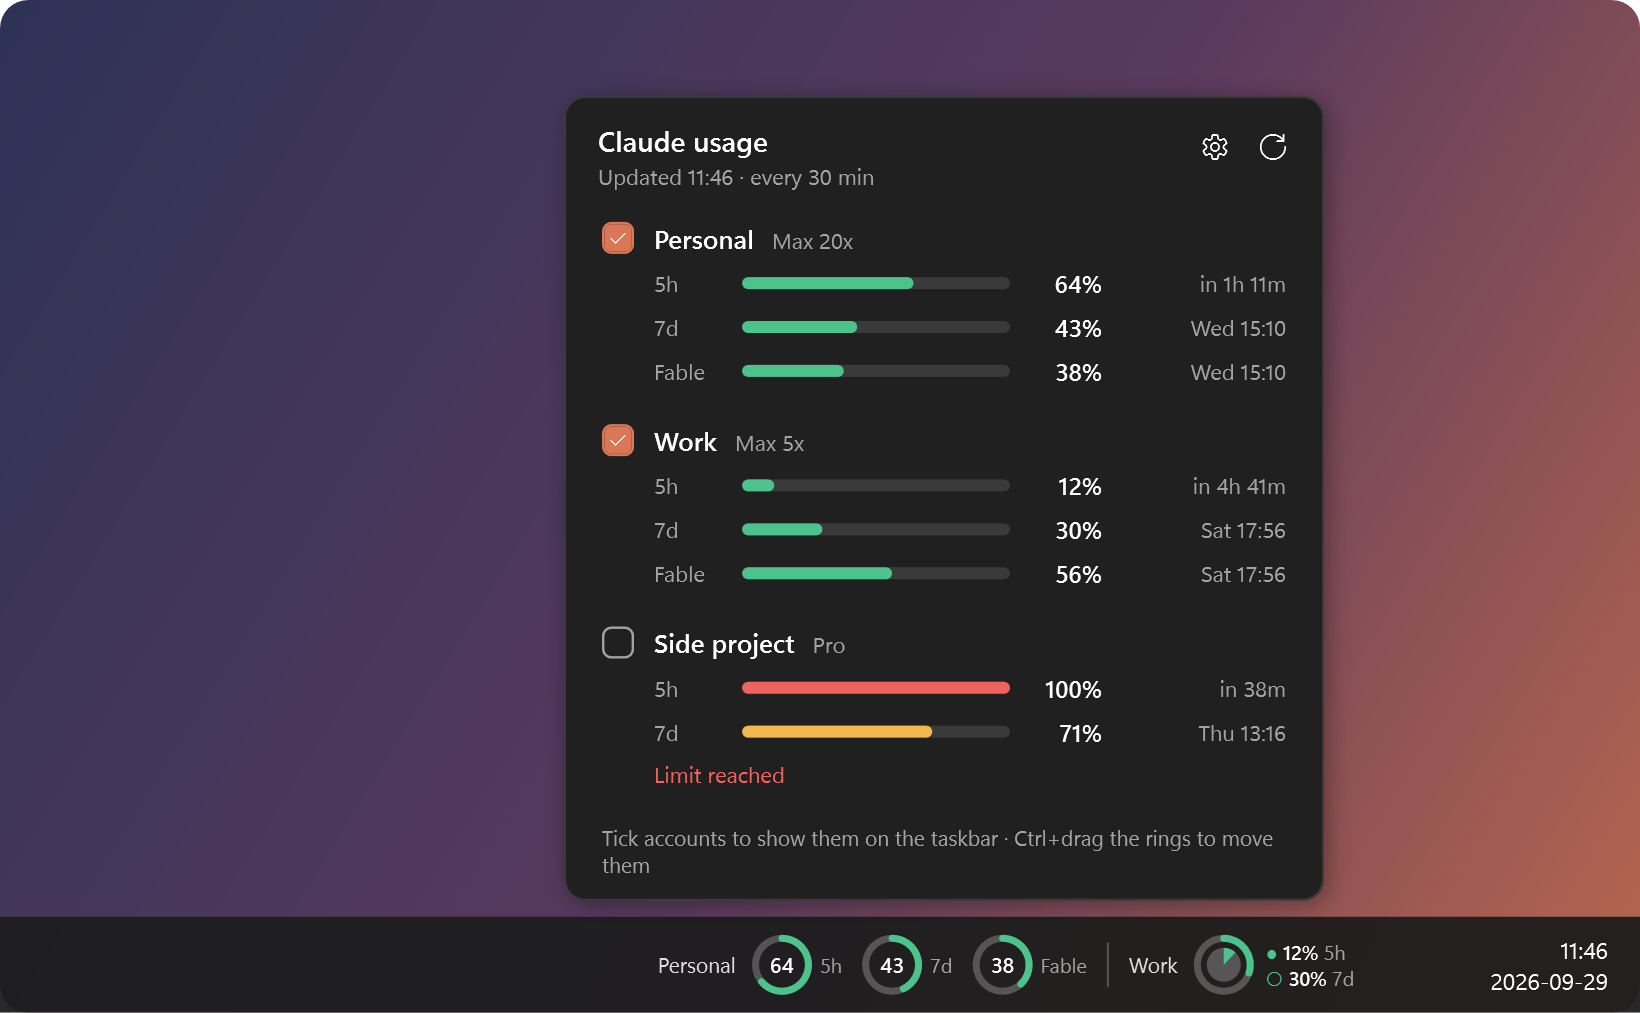
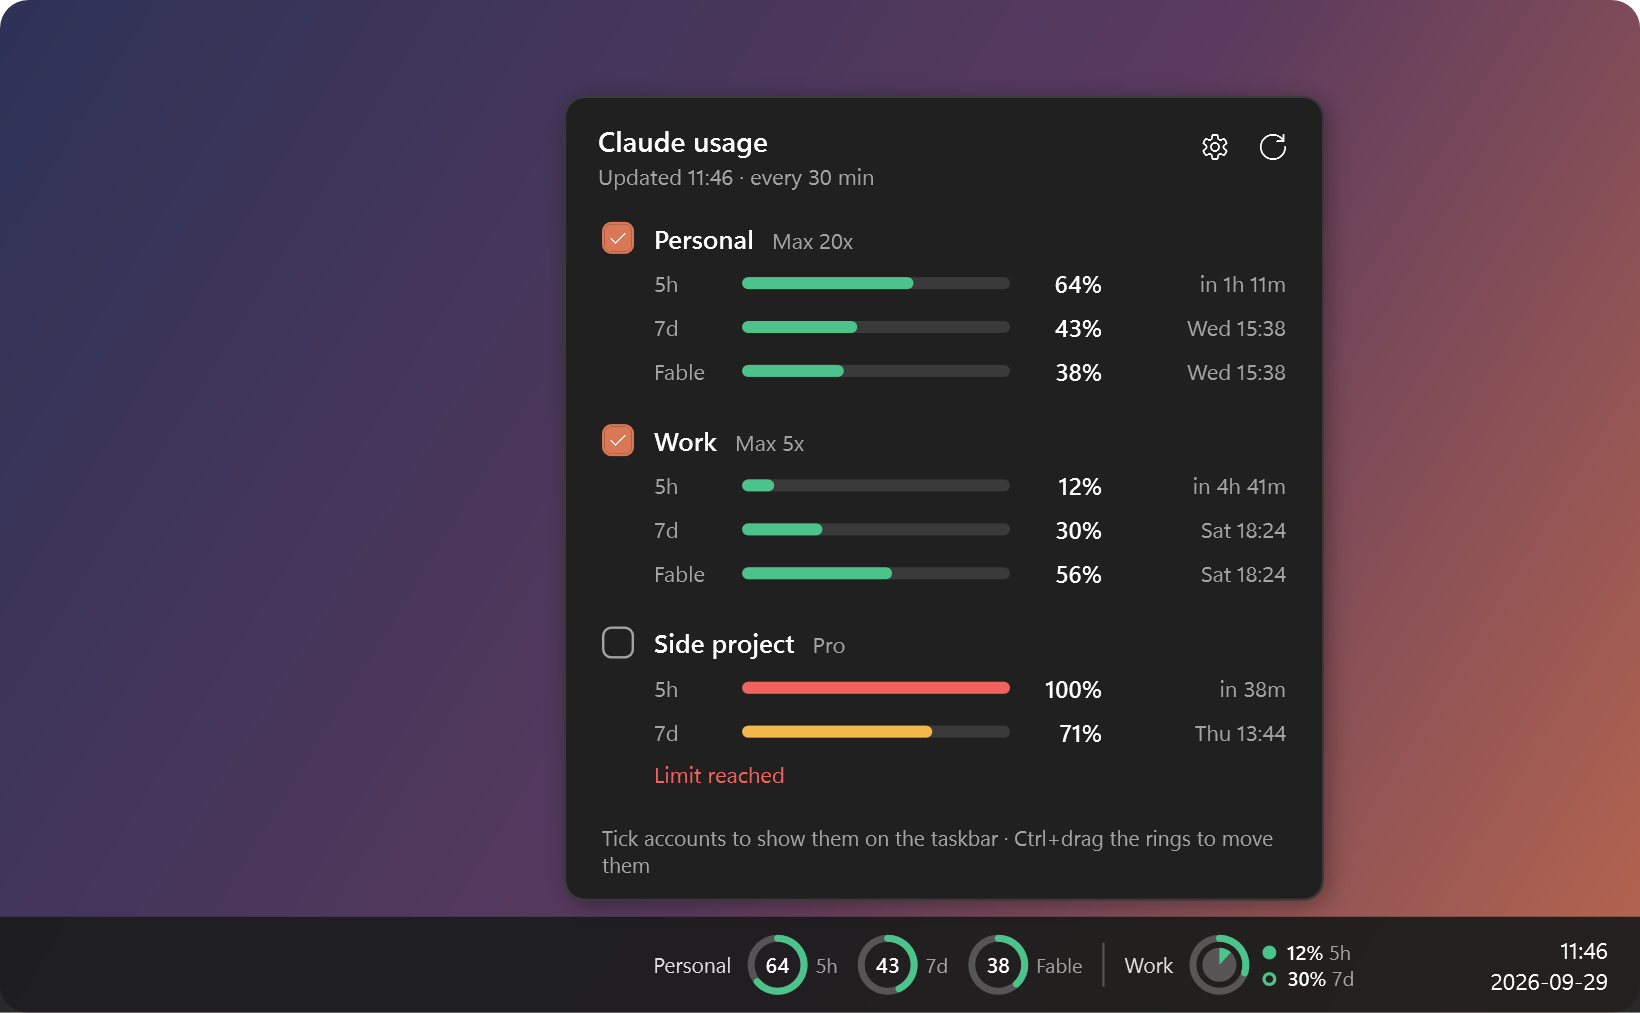
Settings Save/Cancel, taskbar toggles, refresh interval, aligned legend; 1.2.0
- Settings preview live on the taskbar; Save writes them, Cancel/Esc restores
- Taskbar options: account names and captions on/off, refresh every N min (min 5)
- Combined legend uses drawn, equal-size markers so both lines align
- Drop the per-account "In list" checkbox (hidden stays a config option)
- Re-rendered README images

diff --git a/README.md b/README.md
@@ -23,8 +23,8 @@ One account or several, updated in the background, in one click.
 - **All limits in one click.** The list shows each account's 5-hour window, 7-day window and Fable weekly limit, with countdowns to the resets.
 - **Finds your accounts.** On first run it picks up the Claude Code logins on your PC (and [xndr-claude](https://github.com/mrcsXndr/xndr-claude) accounts if you use it).
 - **Two styles.** **Rings** gives each limit its own ring. **Combined** puts one limit as a pie in the middle and the other as the ring around it, with both percentages beside it. You choose which limit goes in the middle.
-- **Settings you can edit.** Rename accounts, choose each account's style and rings, and rename the ring captions.
-- **Stays out of the way.** Refreshes every 30 minutes, and at most once a minute however you trigger it. Catches up after sleep. Hides during full-screen apps. Follows the light or dark theme.
+- **Settings you can edit.** Rename accounts, choose each account's style and rings, show or hide account names and captions, rename the captions, and set how often it refreshes.
+- **Stays out of the way.** Refreshes every 30 minutes by default (5 minutes at the most frequent), and never more than once a minute when you refresh by hand. Catches up after sleep. Hides during full-screen apps. Follows the light or dark theme.
 - **Nothing to install besides itself.** It's plain PowerShell and WPF, which ship with Windows, so there are no runtimes, services or admin rights involved.
 
 ## Install
@@ -54,7 +54,7 @@ Running either one again updates you to the latest release and keeps your settin
 | --- | --- |
 | **Click** the rings | Open the account list |
 | **Tick** an account | Show it on the taskbar |
-| **⚙ Settings** | Rename accounts, pick Rings or Combined, choose rings, rename captions |
+| **⚙ Settings** | Rename accounts, pick Rings or Combined, choose rings, toggle names and captions, set the refresh interval. Changes preview on the taskbar right away; **Save** keeps them and **Cancel** (or Esc) undoes them |
 | **⟳** | Refresh now (at most once a minute) |
 | **Ctrl + drag** | Move the rings along the taskbar |
 | **Right-click** | Refresh · Settings · Scan for accounts · Start with Windows · Uninstall · Exit |
@@ -70,7 +70,7 @@ The widget finds accounts on its own:
 - **Claude Code logins.** It reads `%USERPROFILE%\.claude\.credentials.json`, which is where Claude Code keeps its login on Windows. It also checks any other `.claude*` folder in your user profile (for example one per account set up with `CLAUDE_CONFIG_DIR`). Accounts are named after the email they're logged in with.
 - **[xndr-claude](https://github.com/mrcsXndr/xndr-claude)** accounts, if it's installed.
 
-After you log in to another account, right-click the rings and choose **Scan for accounts**. If the same account turns up twice, open ⚙ Settings and untick **In list** on one of them.
+After you log in to another account, right-click the rings and choose **Scan for accounts**. If the same account turns up twice, you can hide one of them by adding `"hidden": true` to it in the config file (see below).
 
 <details>
 <summary>Other token sources (config file)</summary>
@@ -80,6 +80,8 @@ Everything is stored in `%APPDATA%\claude-usage-widget\config.json`. To open it,
 ```json
 {
   "refreshMinutes": 30,
+  "showNames": true,
+  "showCaptions": true,
   "captions": { "5h": "5h", "7d": "7d", "fable": "Fable" },
   "accounts": [
     { "name": "claude-code", "label": "Personal", "source": "claude-code", "taskbar": true, "limits": ["5h", "7d", "fable"] },
@@ -97,7 +99,9 @@ Everything is stored in `%APPDATA%\claude-usage-widget\config.json`. To open it,
 | `command` | Whatever the command prints, for example a password manager CLI. |
 | `env` | An environment variable. |
 
-`"style": "combined"` shows 5h and 7d in one dial, and `"pie"` (`"5h"` or `"7d"`) picks which one goes in the middle. `"limits"` picks the rings in the Rings style. `"fable": false` makes that account skip the Fable probe (see below).
+`"refreshMinutes"` sets how often it refreshes, 5 at the lowest. `"showNames"` and `"showCaptions"` turn the account names and ring captions on the taskbar on or off.
+
+For each account, `"style": "combined"` shows 5h and 7d in one dial, and `"pie"` (`"5h"` or `"7d"`) picks which one goes in the middle. `"limits"` picks the rings in the Rings style. `"hidden": true` leaves an account out of the list and off the taskbar. `"fable": false` makes that account skip the Fable probe (see below).
 </details>
 
 ## How it works
